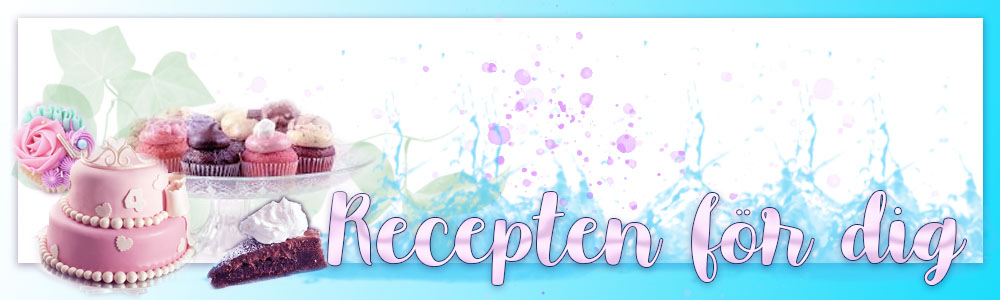
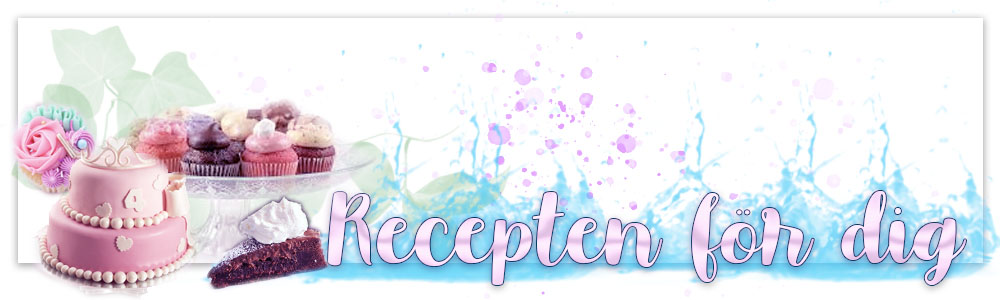
initial commit

Changed region(s): [[0.124, 0.0, 1.0, 1.0]]

diff --git a/stylesheet.css b/stylesheet.css
@@ -1,6 +1,6 @@
 /* Bakgrunden bakom header och content */ 
 body {
-    background-color : white;
+    background-color : #F2E8F2;
     }
 
     /* Utrymmet högst upp på hemsidan innan content börjar */ 
@@ -50,9 +50,9 @@ header {
     margin-left : 0;
     padding : 0;
     overflow : hidden;
-    background-color : #F2E8F2;
+    background-color : white;
     box-shadow: 0 0 2px 1px rgb(0 0 0 / 0.5); /* Skugga runt "boxen" */
-    border-radius:10px;
+    border-radius:0px;
 }
 
    /* Vart meny1 ska vara, höger, vänster eller centrerat */ 

diff --git a/index.html b/index.html
@@ -17,7 +17,7 @@
         </nav>
 
         <header>
-            <img src="images/Header2.jpeg" alt="Header" width="1000">
+            <img src="images/Header2.png" alt="Header" width="1000">
         </header>        
         <div id="content">
         <h1> VÄLKOMMEN TILL OSS</h1>
